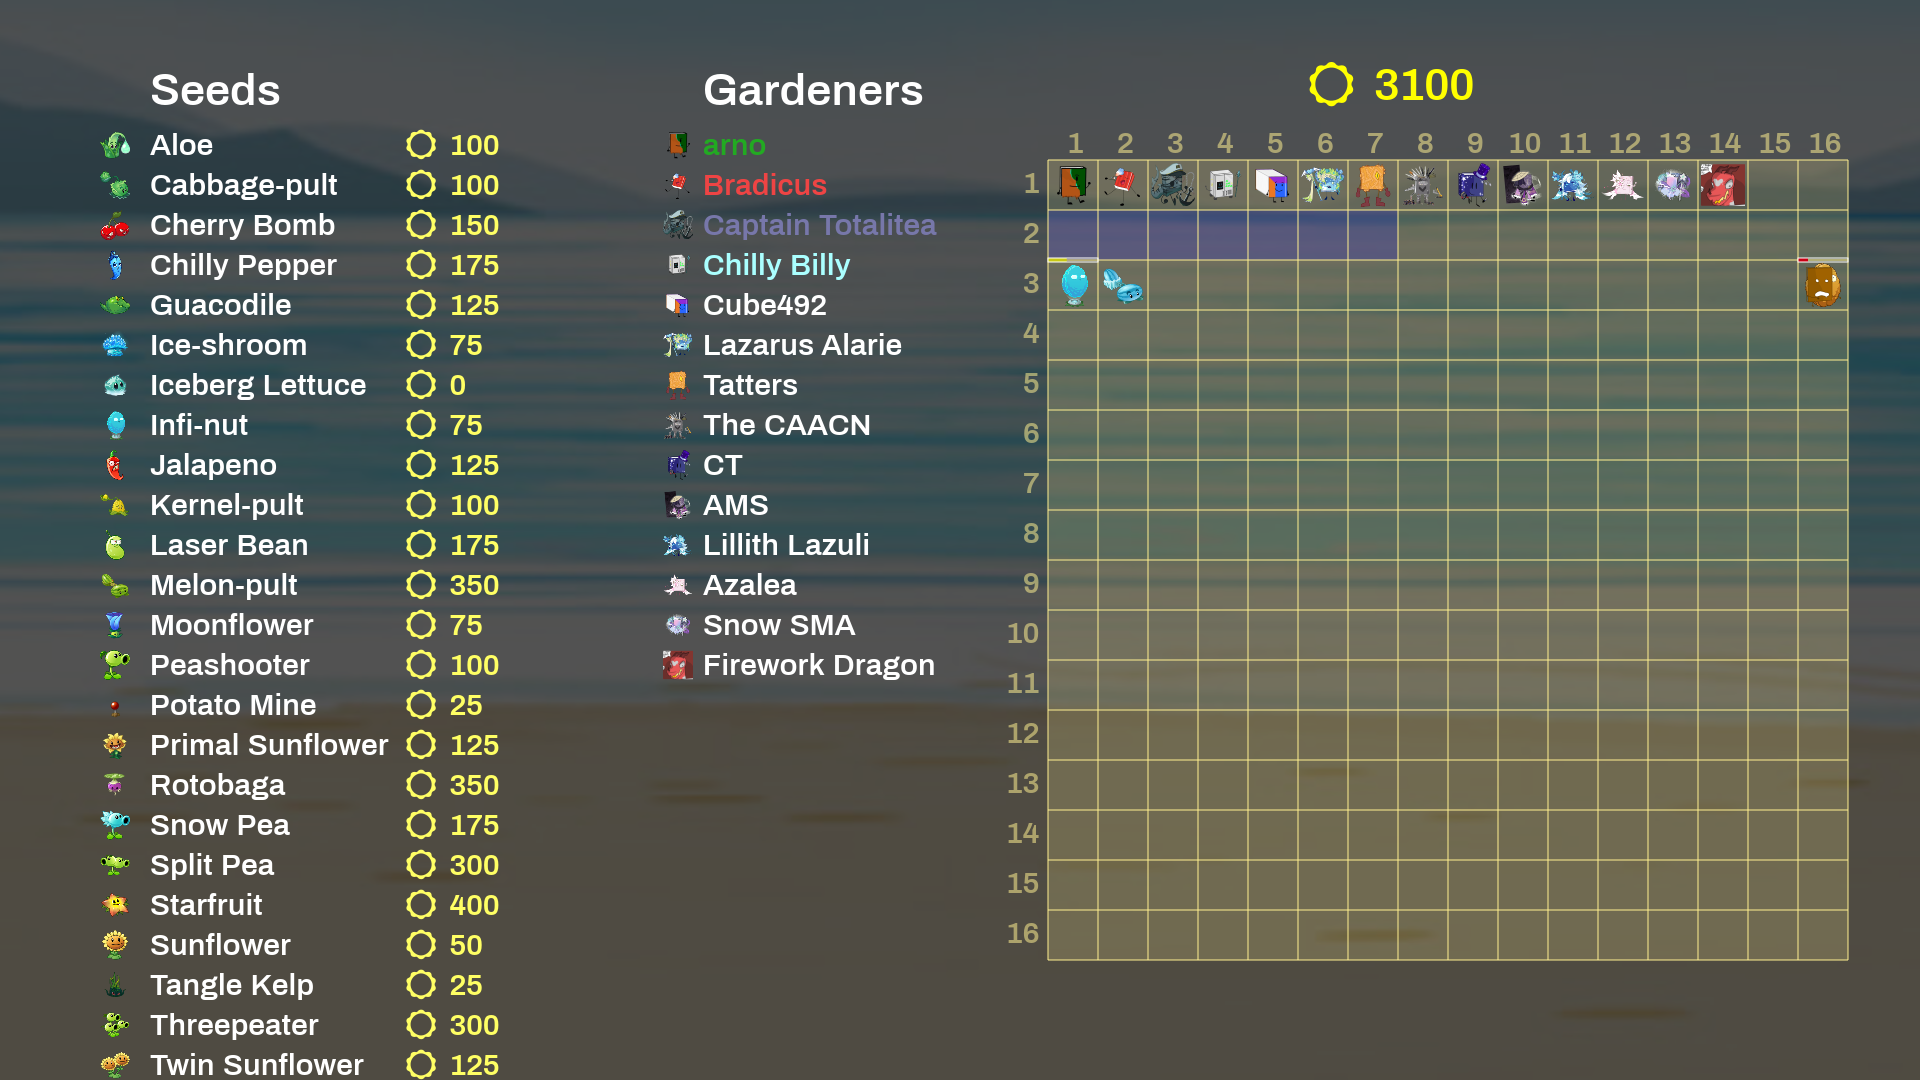
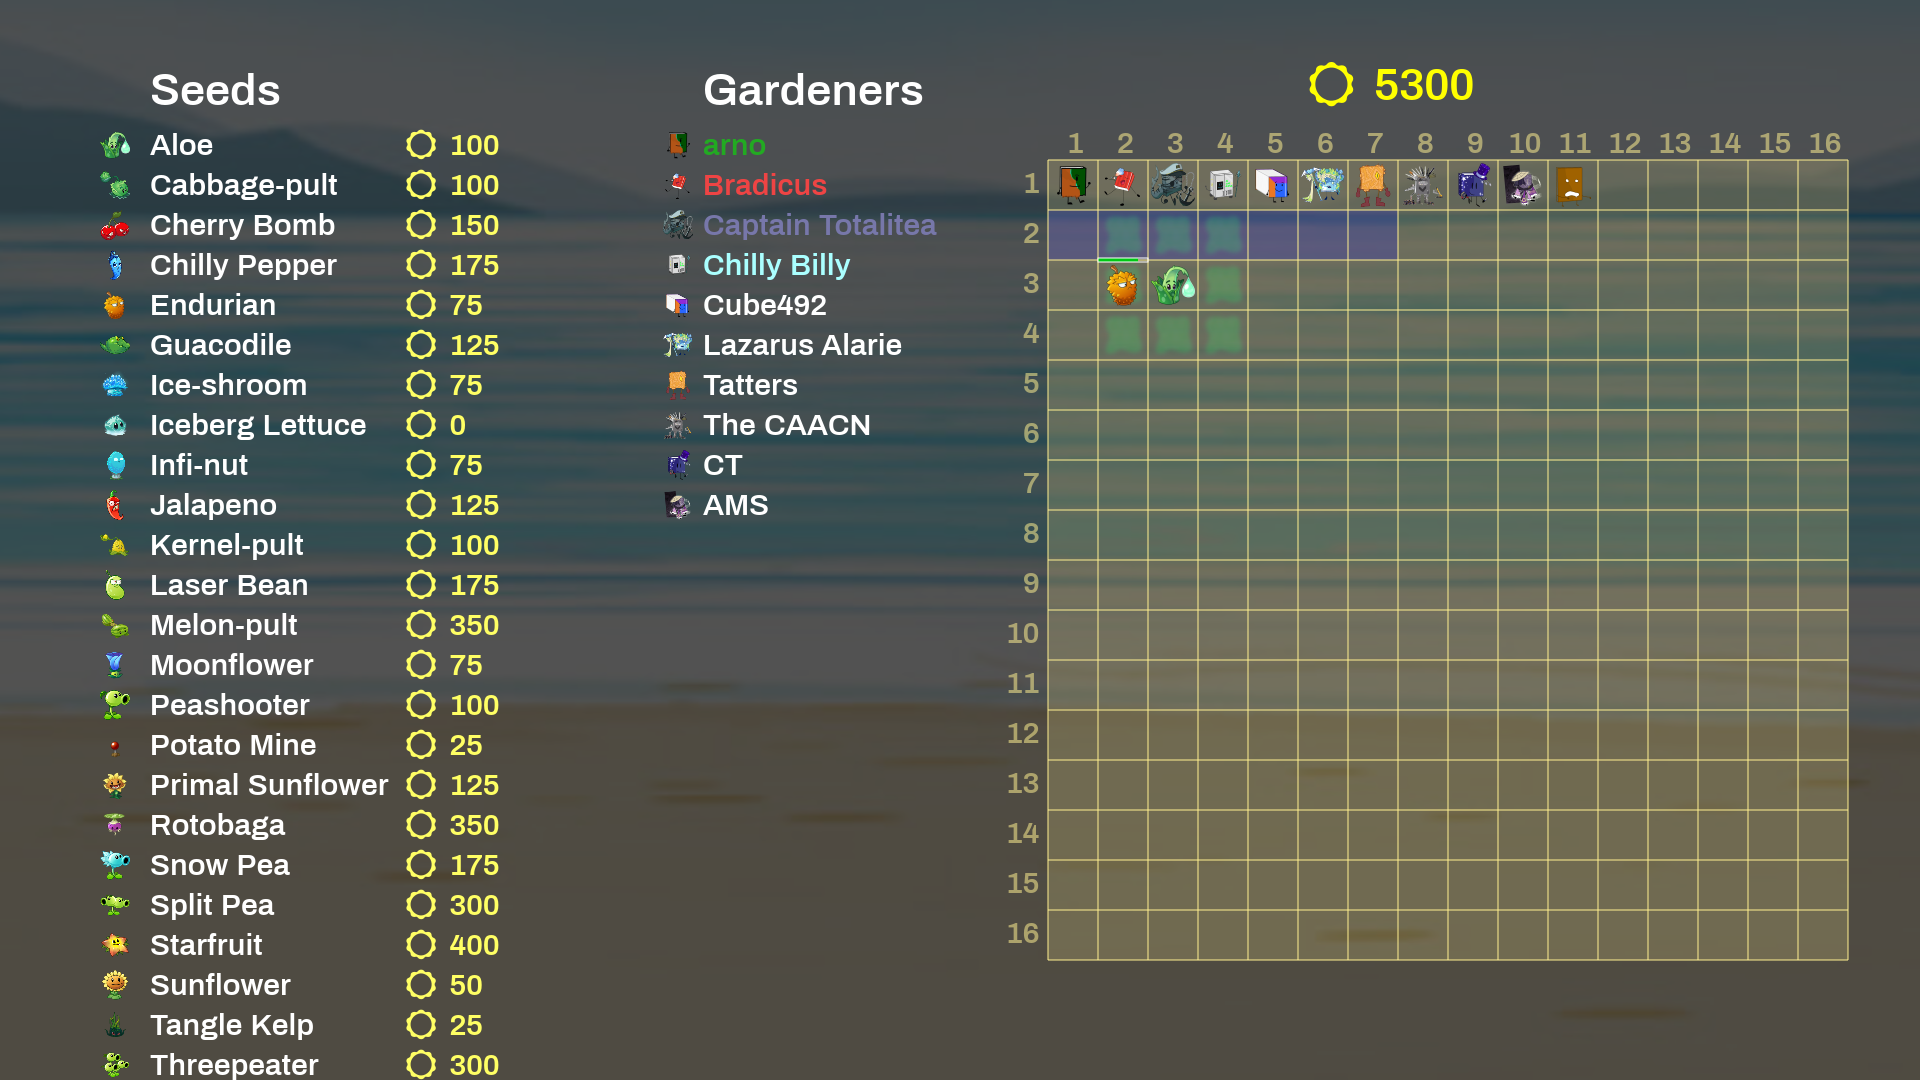
endurian added

diff --git a/plants/healers.js b/plants/healers.js
@@ -1,5 +1,6 @@
 const Plant = require("../structures/plant.js");
 const Action = require("../structures/action.js");
+const Movement = require("../structures/movement.js");
 class Aloe extends Plant {
 	constructor(data) {
 		super({
@@ -12,8 +13,7 @@ class Aloe extends Plant {
 		Object.assign(this, data);
 	}
 	onEndTurn(action_list) {
-		const { plant_list } = action_list;
-		plant_list.forEach((p) => {
+		action_list.nearSquare(this.position, 1, `plants`).forEach((p) => {
 			if (
 				Math.abs(p.position.x - this.position.x) == 1 ||
 				Math.abs(p.position.y - this.position.y) == 1
@@ -23,6 +23,58 @@ class Aloe extends Plant {
 				}
 			}
 		});
+		return new Action({
+			actions:[
+				new Action({
+					tile_render: {
+						position: new Movement(this.position.x, this.position.y+1),
+						effect: `heal.png`
+					}
+				}),
+				new Action({
+					tile_render: {
+						position: new Movement(this.position.x, this.position.y-1),
+						effect: `heal.png`
+					}
+				}),
+				new Action({
+					tile_render: {
+						position: new Movement(this.position.x+1, this.position.y+1),
+						effect: `heal.png`
+					}
+				}),
+				new Action({
+					tile_render: {
+						position: new Movement(this.position.x+1, this.position.y-1),
+						effect: `heal.png`
+					}
+				}),
+				new Action({
+					tile_render: {
+						position: new Movement(this.position.x-1, this.position.y+1),
+						effect: `heal.png`
+					}
+				}),
+				new Action({
+					tile_render: {
+						position: new Movement(this.position.x-1, this.position.y-1),
+						effect: `heal.png`
+					}
+				}),
+				new Action({
+					tile_render: {
+						position: new Movement(this.position.x+1, this.position.y),
+						effect: `heal.png`
+					}
+				}),
+				new Action({
+					tile_render: {
+						position: new Movement(this.position.x-1, this.position.y),
+						effect: `heal.png`
+					}
+				}),
+			]
+		})
 		if (!zombie_colliding) {
 			return new Action({ notes: `Peashooter missed` });
 		} else {

diff --git a/plants/wall_nuts.js b/plants/wall_nuts.js
@@ -1,4 +1,5 @@
 const Plant = require("../structures/plant.js");
+const Action = require("../structures/action.js")
 class WallNut extends Plant {
 	constructor(data) {
 		super({
@@ -31,4 +32,21 @@ module.exports = {
 			return this;
 		}
 	},
+	Endurian: class Endurian extends WallNut {
+		constructor(data) {
+			super({
+				name: `Endurian`,
+				sun_cost: 75,
+				health: 8,
+				cooldown: 4
+			})
+			Object.assign(this, data)
+		}
+		onEndTurn(action_list) {
+			action_list.near(this.position, 1, `zombies`).forEach(zombie => {
+				zombie.damage(1)
+			});
+			return new Action({})
+		}
+	}
 };

diff --git a/actions.js b/actions.js
@@ -161,12 +161,16 @@ module.exports = {
 			end_turn: 6,
 		}),
 		new Action({
-			new_plant: `WinterMelon`,
+			new_plant: `Endurian`,
 			position: new Movement(1, 2),
 			direction: new Movement(-1, 0)
 		}),
 		new Action({
-			end_turn: 3
+			new_plant: `Aloe`,
+			position: new Movement(2, 2)
+		}),
+		new Action({
+			end_turn: 20
 		})
 	],
 };
